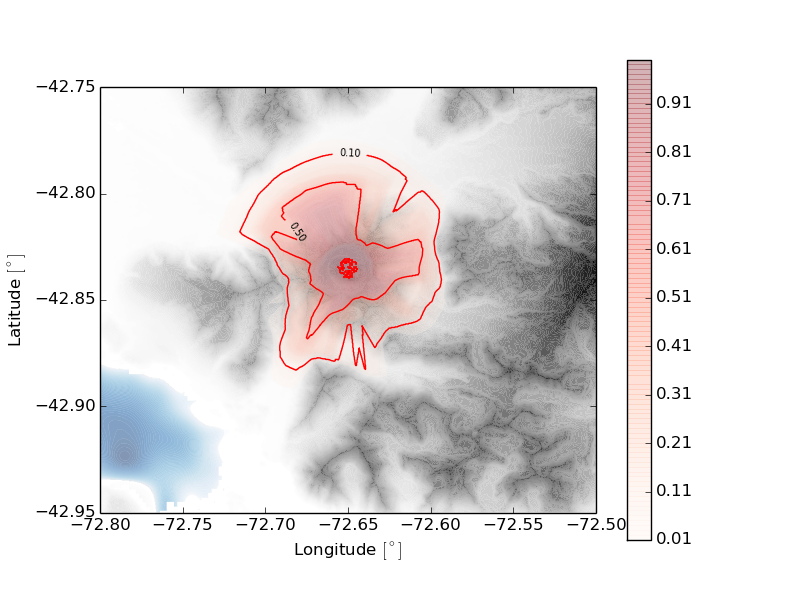
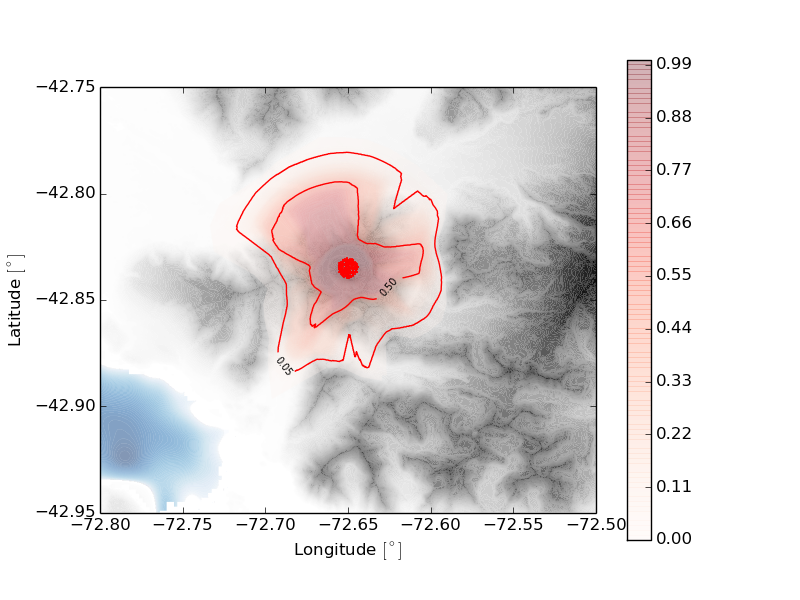
major changes

diff --git a/ECMapProb.py b/ECMapProb.py
@@ -156,6 +156,13 @@ if(source_dem == 3 and ( np.isnan( lon_cen ) or np.isnan( lat_cen ) or np.isnan(
 	print('Problems with input parameters')
 	sys.exit(0)
 
+save_direction = 0
+direction = [0, 10, 20, 30, 40, 50, 60, 70, 80, 90, 100, 110, 120, 130, 140, 150, 160, 170, 180, 190, 200, 210, 220, 230, 240, 250, 260, 270, 280, 290, 300, 310, 320, 330, 340, 350]
+if(save_direction == 0):
+	length_direction = 0
+else:
+	length_direction = len(direction)
+
 # IMPORT MAP
 if(source_dem == 1):
 	print('Importing map')
@@ -458,13 +465,30 @@ if(source_dem == 2):
 print('Computing energy cones')
 
 angstep = 10
-distep = 5
+distep = 10
 anglen = 360 / angstep
 pix_min = 0.0
 
-if( save_data == 1 ):
+if( redist_energy == 3 or redist_energy == 4 ):
+	factor_mult = 50.0
+	center_elim = 0.5
+	aux_backward = 1 / (1 + np.exp(factor_mult * (np.linspace(0.0, 1.0, anglen/2 + 1) - center_elim) ) )
+	vector_backward_1 = np.zeros(anglen)
+	vector_backward_1[0:anglen/2 - 1] = aux_backward[anglen/2-1:0:-1]
+	vector_backward_1[anglen/2-1:] = aux_backward[:]
+	vector_backward_1[vector_backward_1 < 1e-3] = 0
+	vector_backward_1[vector_backward_1 > 1.0 - 1e-3] = 1.0
+	aux_backward = 1 / (1 + np.exp(factor_mult * (np.linspace(1.0/(anglen/2), 1.0 - 1.0/(anglen/2), anglen/2 ) - center_elim) ) )
+	vector_backward_2 = np.zeros(anglen)
+	vector_backward_2[0:anglen/2] = aux_backward[::-1]
+	vector_backward_2[anglen/2:] = aux_backward[:]
+	vector_backward_2[vector_backward_2 < 1e-3] = 0
+	vector_backward_2[vector_backward_2 > 1.0 - 1e-3] = 1.0
+	index_max = anglen/2 - 1
+	vector_correc = np.zeros(anglen)
 
-	summary_data = np.zeros((N,6))
+if( save_data == 1 ):
+	summary_data = np.zeros((N,6 + length_direction))
 	summary_data[:,0] = height_vector
 	summary_data[:,1] = hl_vector
 	if( source_dem == 1 or source_dem == 3):
@@ -478,7 +502,7 @@ if( save_data == 1 ):
 		area_pixel = cellsize * cellsize * 1e-6
 		sim_data = str(N) + "\n" + str(cellsize) + "\n" + str(cellsize) + "\n" + str(source_dem) + "\n" + str(cone_levels) + "\n"
 	string_data = ""
-	if( N == 1):
+	if(N == 1):
 		string_cones = ""
 
 if(source_dem == 1 or source_dem == 3):
@@ -496,7 +520,29 @@ if(source_dem == 1 or source_dem == 3):
 		height_eff = height_vector[i] + interpol_pos(lon1, lat1, step_lon_deg, step_lat_deg, lon_cen_vector[i], lat_cen_vector[i], cells_lon, cells_lat, Topography)
 		polygon.append((lon_cen_vector[i], lat_cen_vector[i],  height_eff, 1.0, -1, height_vector[i] ))
 		sum_pixels = 0
-		hl_current = hl_vector[i]		
+		hl_current = hl_vector[i]
+
+		if(save_direction == 1):
+			data_direction = np.zeros((cells_lat,cells_lon,length_direction))
+			wh_negative = np.where( (matrix_lat - lat_cen) <= 0 )
+			ang_direction = 180 * np.arctan( (matrix_lon - lon_cen ) * (step_lon_m / step_lon_deg ) / (matrix_lat - lat_cen ) / (step_lat_m / step_lat_deg ) ) / np.pi
+			ang_direction[wh_negative] = ang_direction[wh_negative] + 180.0
+			ang_direction[np.where(ang_direction < 0)] = ang_direction[np.where(ang_direction < 0)] + 360.0	
+			for ii in range(length_direction):
+				matrix_aux_1 = np.zeros((cells_lat,cells_lon))
+				matrix_aux_2 = np.zeros((cells_lat,cells_lon))
+				if(ii < length_direction - 1):
+					wh_direction_1 = np.where(ang_direction > direction[ii])
+					wh_direction_2 = np.where(ang_direction <= direction[ii + 1])
+					matrix_aux_1[wh_direction_1] = 1
+					matrix_aux_2[wh_direction_2] = 1
+					data_direction[:,:,ii] = matrix_aux_1 * matrix_aux_2
+				else:
+					wh_direction_1 = np.where(ang_direction > direction[ii])
+					wh_direction_2 = np.where(ang_direction <= direction[0])
+					matrix_aux_1[wh_direction_1] = 1
+					matrix_aux_2[wh_direction_2] = 1
+					data_direction[:,:,ii] = np.maximum(matrix_aux_1, matrix_aux_2)
 
 		for j in range(10000): 
 
@@ -526,35 +572,16 @@ if(source_dem == 1 or source_dem == 3):
 						break
 
 			if( (redist_energy == 3 or redist_energy == 4) and polygon[j][4] > -1 ):
-				lim1 = np.int(polygon[j][4] - anglen/4)
-				lim2 = np.int(polygon[j][4] + anglen/4)
+				lim = np.int(polygon[j][4])
 				if( polygon[j][4] == np.int(polygon[j][4]) ):
-					if(lim1 < 0):
-						lim1 = lim1 + anglen
-					if(lim2 >= anglen):
-						lim2 = lim2 - anglen
-					for jj in range(anglen):
-						if(jj < lim1 and lim1 < lim2):
-							polygons_new[jj] = 0
-						elif(jj > lim2 and lim1 < lim2):
-							polygons_new[jj] = 0
-						elif(jj < lim1 and jj > lim2 and lim1 > lim2):
-							polygons_new[jj] = 0
+					for ii in range(anglen):
+						vector_correc[ii] = vector_backward_1[int((ii - polygon[j][4] + index_max) % anglen)]
+
 				else:
-					lim2 = lim2 + 1
-					if(lim1 < 0):
-						lim1 = lim1 + anglen
-					if(lim2 >= anglen):
-						lim2 = lim2 - anglen
-					for jj in range(anglen):
-						if(jj < lim1 and lim1 < lim2):
-							polygons_new[jj] = 0
-						elif(jj > lim2 and lim1 < lim2):
-							polygons_new[jj] = 0
-						elif(jj < lim1 and jj > lim2 and lim1 > lim2):
-							polygons_new[jj] = 0
-						elif( jj == lim1 or jj == lim2):
-							polygons_new[jj] = polygons_new[jj] / 2.0
+					for ii in range(anglen):
+						vector_correc[ii] = vector_backward_2[int((ii - polygon[j][4] + index_max) % anglen)]
+
+				polygons_new = polygons_new * vector_correc
 
 			img = Image.new('L', (cells_lon, cells_lat), 0)
 			if( len(polygon_xy) > 0 ):
@@ -790,6 +817,13 @@ if(source_dem == 1 or source_dem == 3):
 		if( save_data == 1 ):
 
 			distances = np.power(np.power(( matrix_lon - lon_cen_vector[i]) * (step_lon_m / step_lon_deg),2) + np.power(( matrix_lat - lat_cen_vector[i])*(step_lat_m / step_lat_deg),2),0.5) 
+
+			if(save_direction == 1):
+				for ii in range(length_direction):
+					distances_corrected = distances * data_direction[:,:,ii]
+					distances_corrected = distances_corrected * data_step[ range(len(data_cones[:,0]) -1 , -1 , -1 ) , : ]
+					summary_data[i,6 + ii]  = distances_corrected.max() / 1000.0
+
 			distances = distances * data_step[ range(len(data_cones[:,0]) -1 , -1 , -1 ) , : ]
 			summary_data[i,4] = sum(sum(data_step)) * area_pixel
 			summary_data[i,5] = distances.max() / 1000.0
@@ -836,38 +870,19 @@ if( source_dem == 2 ):
 					if( h >= polygon[j][2] - hl_current * distance ):
 						polygon_xy.append((int((polygon[j][0] + (distance-distep)* cos(angle_rad) - east_cor) * n_east / ( cellsize * ( n_east - 1 ) ) ), int((polygon[j][1] + (distance-distep)*sin(angle_rad) - north_cor) * n_north / ( cellsize * ( n_north - 1 ) ))))
 						polygons_new.append(distance - distep)
-						break						
-
+						break		
+				
 			if( (redist_energy == 3 or redist_energy == 4) and polygon[j][4] > -1 ):
-				lim1 = np.int(polygon[j][4] - anglen/4)
-				lim2 = np.int(polygon[j][4] + anglen/4)
+				lim = np.int(polygon[j][4])
 				if( polygon[j][4] == np.int(polygon[j][4]) ):
-					if(lim1 < 0):
-						lim1 = lim1 + anglen
-					if(lim2 >= anglen):
-						lim2 = lim2 - anglen
-					for jj in range(anglen):
-						if(jj < lim1 and lim1 < lim2):
-							polygons_new[jj] = 0
-						elif(jj > lim2 and lim1 < lim2):
-							polygons_new[jj] = 0
-						elif(jj < lim1 and jj > lim2 and lim1 > lim2):
-							polygons_new[jj] = 0
+					for ii in range(anglen):
+						vector_correc[ii] = vector_backward_1[int((ii - polygon[j][4] + index_max) % anglen)]
+
 				else:
-					lim2 = lim2 + 1
-					if(lim1 < 0):
-						lim1 = lim1 + anglen
-					if(lim2 >= anglen):
-						lim2 = lim2 - anglen
-					for jj in range(anglen):
-						if(jj < lim1 and lim1 < lim2):
-							polygons_new[jj] = 0
-						elif(jj > lim2 and lim1 < lim2):
-							polygons_new[jj] = 0
-						elif(jj < lim1 and jj > lim2 and lim1 > lim2):
-							polygons_new[jj] = 0
-						elif( jj == lim1 or jj == lim2):
-							polygons_new[jj] = polygons_new[jj] / 2.0
+					for ii in range(anglen):
+						vector_correc[ii] = vector_backward_2[int((ii - polygon[j][4] + index_max) % anglen)]
+
+				polygons_new = polygons_new * vector_correc
 
 			img = Image.new('L', (n_east, n_north), 0)
 			if( len(polygon_xy) > 0 ):
@@ -1143,7 +1158,7 @@ if(source_dem == 1 or source_dem == 3):
 	line_val = data_cones.max()
 	data_cones[data_cones[:,:] == 0] =  np.nan
 	val_up = np.floor((line_val + 0.1 - 1.0 / N ) * 10.0) / 20.0
-	val_down = np.maximum( val_up / 10.0 , 0.1 )
+	val_down = np.maximum( val_up / 10.0 , 0.05 )
 
 	plt.figure(1)
 	cmapg = plt.cm.get_cmap('Greys')
@@ -1200,7 +1215,7 @@ if(source_dem == 2):
 	line_val = data_cones.max()
 	data_cones[data_cones[:,:] == 0] =  np.nan
 	val_up = np.floor((line_val + 0.1 - 1.0 / N ) * 10.0) / 20.0
-	val_down = np.maximum( val_up / 10.0 , 0.02 )
+	val_down = np.maximum( val_up / 10.0 , 0.05 )
 
 	plt.figure(1)
 

diff --git a/EXAMPLES/San_Salvador/input_data.py b/EXAMPLES/San_Salvador/input_data.py
@@ -45,14 +45,14 @@ var_cen = 500.0
 # var_height = uncertainty of collapse height (in meters)
 # var_hl = uncertainty of hl
 # dist_input = type of distribution for height and H/L (1 => Gaussian / 2 => Uniform)
-height = 750.0
+height = 800.0
 hl = 0.4
-var_height = 250.0
+var_height = 200.0
 var_hl = 0.05
 dist_input = 2
 
 # Number of simulations computed by the code
-N = 100
+N = 200
 
 # Save results in files txt ( 1 => Yes / 0 => No )
 save_data = 1

diff --git a/EXAMPLES/Chaiten_B/input_data.py b/EXAMPLES/Chaiten_B/input_data.py
@@ -52,7 +52,7 @@ var_hl = 0.05
 dist_input = 2
 
 # Number of simulations computed by the code
-N = 100
+N = 300
 
 # Save results in files txt ( 1 => Yes / 0 => No )
 save_data = 1

diff --git a/EXAMPLES/Chaiten_C/input_data.py b/EXAMPLES/Chaiten_C/input_data.py
@@ -52,7 +52,7 @@ var_hl = 0.05
 dist_input = 2
 
 # Number of simulations computed by the code
-N = 100
+N = 300
 
 # Save results in files txt ( 1 => Yes / 0 => No )
 save_data = 1

diff --git a/EXAMPLES/Citlaltepetl_A/input_data.py b/EXAMPLES/Citlaltepetl_A/input_data.py
@@ -52,7 +52,7 @@ var_hl = 0.05
 dist_input = 2
 
 # Number of simulations computed by the code
-N = 100
+N = 300
 
 # Save results in files txt ( 1 => Yes / 0 => No )
 save_data = 1

diff --git a/EXAMPLES/Citlaltepetl_B/input_data.py b/EXAMPLES/Citlaltepetl_B/input_data.py
@@ -52,7 +52,7 @@ var_hl = 0.05
 dist_input = 2
 
 # Number of simulations computed by the code
-N = 100
+N = 300
 
 # Save results in files txt ( 1 => Yes / 0 => No )
 save_data = 1

diff --git a/EXAMPLES/Fuego/input_data.py b/EXAMPLES/Fuego/input_data.py
@@ -52,7 +52,7 @@ var_hl = 0.05
 dist_input = 2
 
 # Number of simulations computed by the code
-N = 100
+N = 300
 
 # Save results in files txt ( 1 => Yes / 0 => No )
 save_data = 1

diff --git a/EXAMPLES/Peteroa_A/input_data.py b/EXAMPLES/Peteroa_A/input_data.py
@@ -52,7 +52,7 @@ var_hl = 0.05
 dist_input = 2
 
 # Number of simulations computed by the code
-N = 100
+N = 200
 
 # Save results in files txt ( 1 => Yes / 0 => No )
 save_data = 1

diff --git a/EXAMPLES/Peteroa_B/input_data.py b/EXAMPLES/Peteroa_B/input_data.py
@@ -54,7 +54,7 @@ var_hl = 0.05
 dist_input = 2
 
 # Number of simulations computed by the code
-N = 100
+N = 200
 
 # Save results in files txt ( 1 => Yes / 0 => No )
 save_data = 1

diff --git a/EXAMPLES/Upload_DEM_UTM/input_data.py b/EXAMPLES/Upload_DEM_UTM/input_data.py
@@ -48,7 +48,7 @@ var_hl = 0.05
 dist_input = 2
 
 # Number of simulations computed by the code
-N = 100
+N = 200
 
 # Save results in files txt ( 1 => Yes / 0 => No )
 save_data = 1

diff --git a/EXAMPLES/Upload_DEM_deg/input_data.py b/EXAMPLES/Upload_DEM_deg/input_data.py
@@ -48,7 +48,7 @@ var_hl = 0.05
 dist_input = 2
 
 # Number of simulations computed by the code
-N = 100
+N = 300
 
 # Save results in files txt ( 1 => Yes / 0 => No )
 save_data = 1

diff --git a/EXAMPLES/Vesuvius_A/input_data.py b/EXAMPLES/Vesuvius_A/input_data.py
@@ -52,7 +52,7 @@ var_hl = 0.10
 dist_input = 2
 
 # Number of simulations computed by the code
-N = 200
+N = 300
 
 # Save results in files txt ( 1 => Yes / 0 => No )
 save_data = 1
